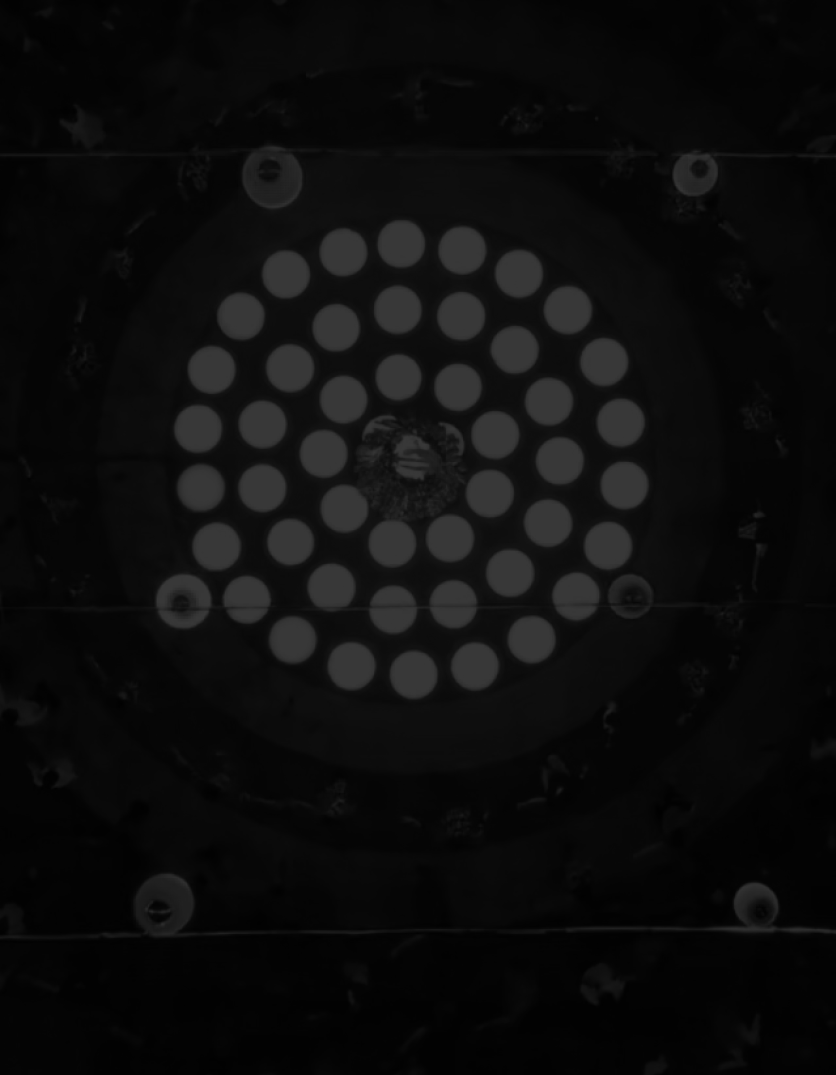
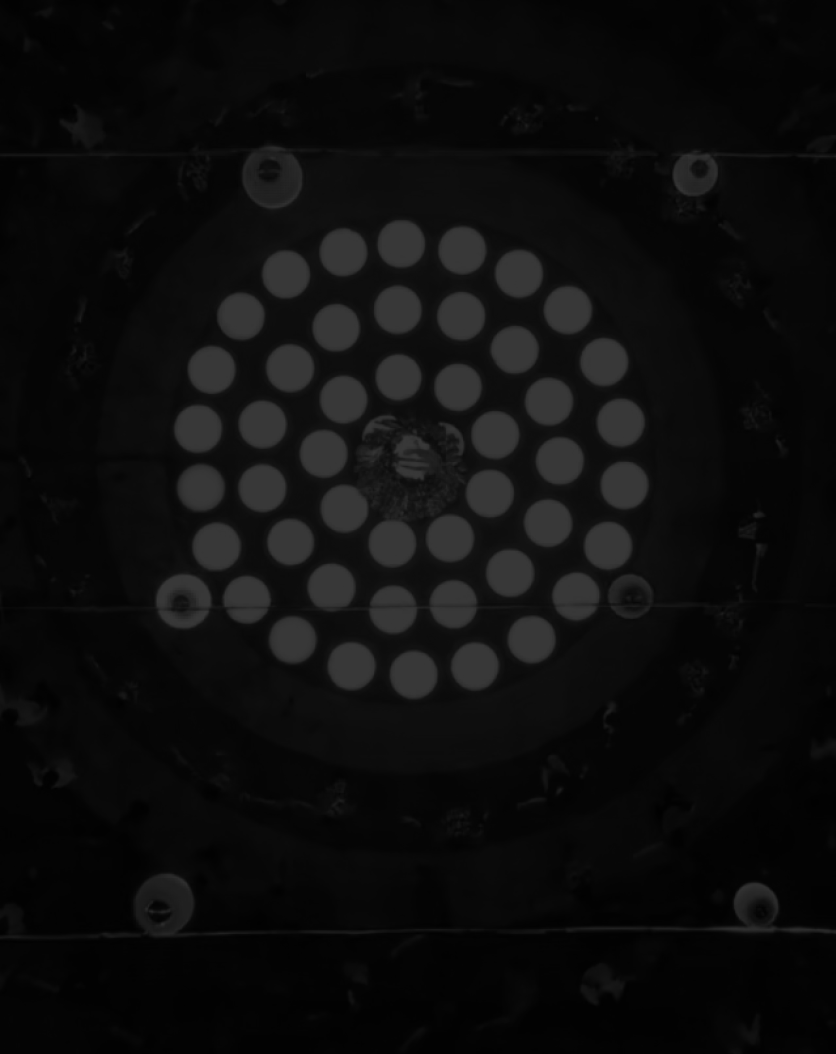
Update internal product images for Nile S

diff --git a/all-purpose/nile-s.html b/all-purpose/nile-s.html
@@ -1,0 +1,235 @@
+<!doctype html>
+<html lang="en">
+
+<head>
+    <meta charset="utf-8">
+    <meta name="viewport" content="width=device-width, initial-scale=1">
+    <meta name="theme-color" content="#222">
+    <title>Nile s - KONO Lighting</title>
+    <link rel="shortcut icon" href="../assets/images/logo/fav.png" type="image/x-icon">
+    <!-- Bootstrap CSS Link -->
+    <link href="https://cdn.jsdelivr.net/npm/bootstrap@5.3.3/dist/css/bootstrap.min.css" rel="stylesheet"
+        integrity="sha384-QWTKZyjpPEjISv5WaRU9OFeRpok6YctnYmDr5pNlyT2bRjXh0JMhjY6hW+ALEwIH" crossorigin="anonymous">
+    <!-- Link to Font Awesome -->
+    <link rel="stylesheet" href="https://cdnjs.cloudflare.com/ajax/libs/font-awesome/6.6.0/css/all.min.css"
+        integrity="sha512-Kc323vGBEqzTmouAECnVceyQqyqdsSiqLQISBL29aUW4U/M7pSPA/gEUZQqv1cwx4OnYxTxve5UMg5GT6L4JJg=="
+        crossorigin="anonymous" referrerpolicy="no-referrer" />
+    <!-- Link to AOS Animations -->
+    <link href="https://unpkg.com/aos@2.3.1/dist/aos.css" rel="stylesheet">
+    <!-- Link to Google Fonts -->
+    <link rel="preconnect" href="https://fonts.googleapis.com">
+    <link rel="preconnect" href="https://fonts.gstatic.com" crossorigin>
+    <link href="https://fonts.googleapis.com/css2?family=Montserrat:ital,wght@0,100..900;1,100..900&display=swap"
+        rel="stylesheet">
+    <!-- Link to Swipper CSS -->
+    <link rel="stylesheet" href="https://cdn.jsdelivr.net/npm/swiper@11/swiper-bundle.min.css">
+    <!-- CSS Link -->
+    <link rel="stylesheet" href="../assets/css/style.css">
+    <link rel="stylesheet" href="../assets/css/internal-products.css">
+</head>
+
+<body>
+
+    <!-- Navbar Start -->
+    <nav class="navbar navbar-expand-lg navbar-dark">
+        <div class="container-lg">
+            <!-- Logo Image on the left side -->
+            <a class="navbar-brand" href="../index.html">
+                <img src="../assets/images/logo/logo.png" alt="Logo">
+            </a>
+
+            <!-- Toggler button for mobile view -->
+            <button class="navbar-toggler" type="button" data-bs-toggle="collapse" data-bs-target="#navbarDropdowns"
+                aria-controls="navbarDropdowns" aria-expanded="false" aria-label="Toggle navigation">
+                <span class="navbar-toggler-icon text-light"></span>
+            </button>
+
+            <!-- Dropdown menus on the right side -->
+            <div class="collapse navbar-collapse justify-content-end" id="navbarDropdowns">
+                <ul class="navbar-nav">
+                    <li class="nav-item">
+                        <a class="nav-link active" aria-current="page" href="../index.html">Home</a>
+                    </li>
+                    <li class="nav-item">
+                        <a class="nav-link" aria-current="page" href="../index.html#about">About Us</a>
+                    </li>
+                    <li class="nav-item dropdown product-dropdown">
+                        <a class="nav-link dropdown-toggle" href="#" id="productsDropdown" role="button" data-bs-toggle="dropdown" aria-expanded="false">
+                            Products
+                        </a>
+                        <ul class="dropdown-menu product-dropdown-menu" aria-labelledby="productsDropdown">
+                            <li><a class="dropdown-item" href="../street-light.html">Street Light</a></li>
+                            <li><a class="dropdown-item" href="../post-top.html">Post Top</a></li>
+                            <li><a class="dropdown-item" href="../flood-light.html">Flood Light</a></li>
+                            <li><a class="dropdown-item" href="../landscape.html">Landscape</a></li>
+                            <li><a class="dropdown-item" href="../all-purpose.html">All Purpose</a></li>
+                            <li><a class="dropdown-item" href="../street-architectural.html">Street Architectural</a></li>
+                        </ul>
+                    </li>
+                    <li class="nav-item dropdown">
+                        <a class="nav-link dropdown-toggle" href="#" id="catalogueDropdown" role="button"
+                            data-bs-toggle="dropdown" aria-expanded="false">
+                            Catalogue
+                        </a>
+                        <ul class="dropdown-menu custom-dropdown-menu" aria-labelledby="catalogueDropdown">
+                            <li class="px-3 py-2">
+                                <h6 class="text-center mb-3 text-light">Enter Your Details</h6>
+                                <!-- Form -->
+                                <form action="https://api.web3forms.com/submit" method="POST" id="contactForm">
+                                    <input type="hidden" name="access_key" value="eb9dd441-7c07-407f-9bb9-131c3d1032b4">
+                                    <div class="mb-2">
+                                        <input type="text" name="name" class="form-control-sm" id="name"
+                                            placeholder="Name*" required>
+                                    </div>
+                                    <div class="mb-2">
+                                        <input type="email" name="email" class="form-control-sm" id="email"
+                                            placeholder="Email*" required>
+                                    </div>
+                                    <div class="mb-2">
+                                        <input type="number" name="phone" class="form-control-sm" id="phone"
+                                            placeholder="Phone No.*" required>
+                                    </div>
+                                    <button type="submit" class="btn btn-sm w-100 text-dark">View Catalogue</button>
+                                </form>
+                            </li>
+                        </ul>
+                    </li>
+                    <li class="nav-item">
+                        <a class="nav-link" aria-current="page" href="#contact">Contact Us</a>
+                    </li>
+                </ul>
+            </div>
+
+        </div>
+    </nav>
+    <!-- Navbar End -->
+
+    <!-- Banner Start -->
+    <section class="banner">
+        <div class="left">
+            
+        </div>
+        <div class="right">
+            <img src="../assets/images/internal-products/all-purpose/nile-s-banner.png" alt="banner">
+            <div class="text-layer">
+                <h1>nile-s</h1>
+                <p>Lorem ipsum dolor sit amet, consectetur adipiscing elit, sed do eiusmod tempor incididunt ut labore et dolore magna aliqua. Quis ipsum suspendisse ultrices gravida. Risus commodo viverra maecenas accumsan lacus vel facilisis.</p>
+            </div>
+        </div>
+
+        <div class="toggle-imx-box">
+            <img src="../assets/images/internal-products/all-purpose/nile-s-off.png" class="" id="light-off" alt="light-image">
+            <img src="../assets/images/internal-products/all-purpose/nile-s-on.png" class="hide" id="light-on" alt="light-image">
+        </div>
+    </section> 
+    <!-- Banner End -->
+
+    <!-- Contact Start -->
+    <section class="contact-bg" id="contact">
+        <div class="contact container-lg">
+            <h3 data-aos="zoom-in" data-aos-duration="1000">Get in Touch</h3>
+            <h1 data-aos="fade" data-aos-duration="1000">Ready to bring your vision to life?</h1>
+            <p data-aos="fade" data-aos-duration="1000">Let's collaborate on your next project.</p>
+            <div class="contact-form">
+                <form action="" data-aos="fade-up" data-aos-duration="1000">
+                    <input type="text" placeholder="Name" name="Name" required id="nameInp">
+                    <input type="email" placeholder="Email" name="Email" required>
+                    <input type="text" placeholder="Subject" name="Subject" required>
+                    <textarea type="text" placeholder="Hello, I'm interested in..." name="Description"
+                        required></textarea>
+                    <button>SUBMIT</button>
+                </form>
+            </div>
+        </div>
+    </section>
+    <!-- Contact End -->
+
+    <!-- Footer Start -->
+    <div class="footer-bg">
+    <footer class="container-lg">
+        <div class="footer-top">
+            <div class="footer-top-left">
+                <div class="foot-logo">
+                    <img src="../assets/images/logo/logo.png" alt="logo">
+                </div>
+                <p>At Kono Lighting, we craft innovative and high-quality lighting solutions designed to transform spaces. From modern streetlights to architectural luminaires, our products seamlessly blend functionality with elegance. Driven by excellence and innovation, we are committed to illuminating your world with precision and style.</p>
+            </div>
+            <div class="footer-top-right">
+                <h3>CONTACT</h3>
+                <div class="contact-box" id="contact-box-1">
+                    <div class="contact-icon">
+                        <i class="fa-solid fa-location-dot"></i>
+                    </div>
+                    <div class="contact-desc">
+                       <a href="https://www.google.com/maps/@28.627119,77.373065,17z?hl=en&entry=ttu&g_ep=EgoyMDI1MDIwNS4xIKXMDSoASAFQAw%3D%3D" target="_blank"> C - 129, Sector 63, NOIDA Uttar Pradesh, INDIA</a>
+                    </div>
+                </div>
+                <div class="contact-box" id="contact-box-2">
+                    <div class="contact-icon">
+                        <i class="fas fa-envelope mr-4"></i>
+                    </div>
+                    <div class="contact-desc">
+                        <a href="mailto:projects@konolighting.com">projects@konolighting.com</a>
+                    </div>
+                </div>
+                <div class="contact-box" id="contact-box-3">
+                    <div class="contact-icon">
+                        <i class="fas fa-phone mr-4"></i>
+                    </div>
+                    <div class="contact-desc">
+                        <p>+91 9810424873</p>
+                    </div>
+                </div>
+            </div>
+        </div>
+        <div class="footer-bottom">
+            <div class="copyright">
+                <p>©2025 Copyright: All Rights Reserved</p>
+            </div>
+            <div class="social-icons">
+              <a href="https://www.facebook.com/profile.php?id=61562648835592" target="_blank"><i class="fab fa-facebook-f"></i></a>
+              <a href="https://www.instagram.com/konolighting_/" target="_blank"><i class="fab fa-instagram"></i></a>
+            </div>
+        </div>
+    </footer>
+    </div>
+    <!-- Footer End -->
+
+    <!-- -------------------------------------------------------------------------------------------------------------------------------- -->
+
+    <!-- Bootstrap JS Link -->
+    <script src="https://cdn.jsdelivr.net/npm/bootstrap@5.3.3/dist/js/bootstrap.bundle.min.js"
+        integrity="sha384-YvpcrYf0tY3lHB60NNkmXc5s9fDVZLESaAA55NDzOxhy9GkcIdslK1eN7N6jIeHz"
+        crossorigin="anonymous"></script>
+
+    <!-- Swiper JS -->
+    <script src="https://cdn.jsdelivr.net/npm/swiper@latest/swiper-bundle.min.js"></script>
+
+    <!-- Lenis Scroll Link -->
+    <script src="https://unpkg.com/lenis@1.1.16/dist/lenis.min.js"></script>
+    <script>
+        const lenis = new Lenis({
+            duration: 0.5, // Adjust the duration for smooth scrolling
+            easing: (t) => t * (2 - t),
+        });
+        function raf(time) {
+            lenis.raf(time);
+            requestAnimationFrame(raf);
+        }
+        requestAnimationFrame(raf);
+    </script>
+
+    <!-- AOS Animation JS Link -->
+    <script src="https://unpkg.com/aos@2.3.1/dist/aos.js"></script>
+    <script>
+        AOS.init();
+    </script>
+
+    <!-- JS Link -->
+    <script src="../assets/js/script.js"></script>
+    <script src="../assets/js/catalogue.js"></script>
+    <script src="../assets/js/internal-products.js"></script>
+
+</body>
+
+</html>
